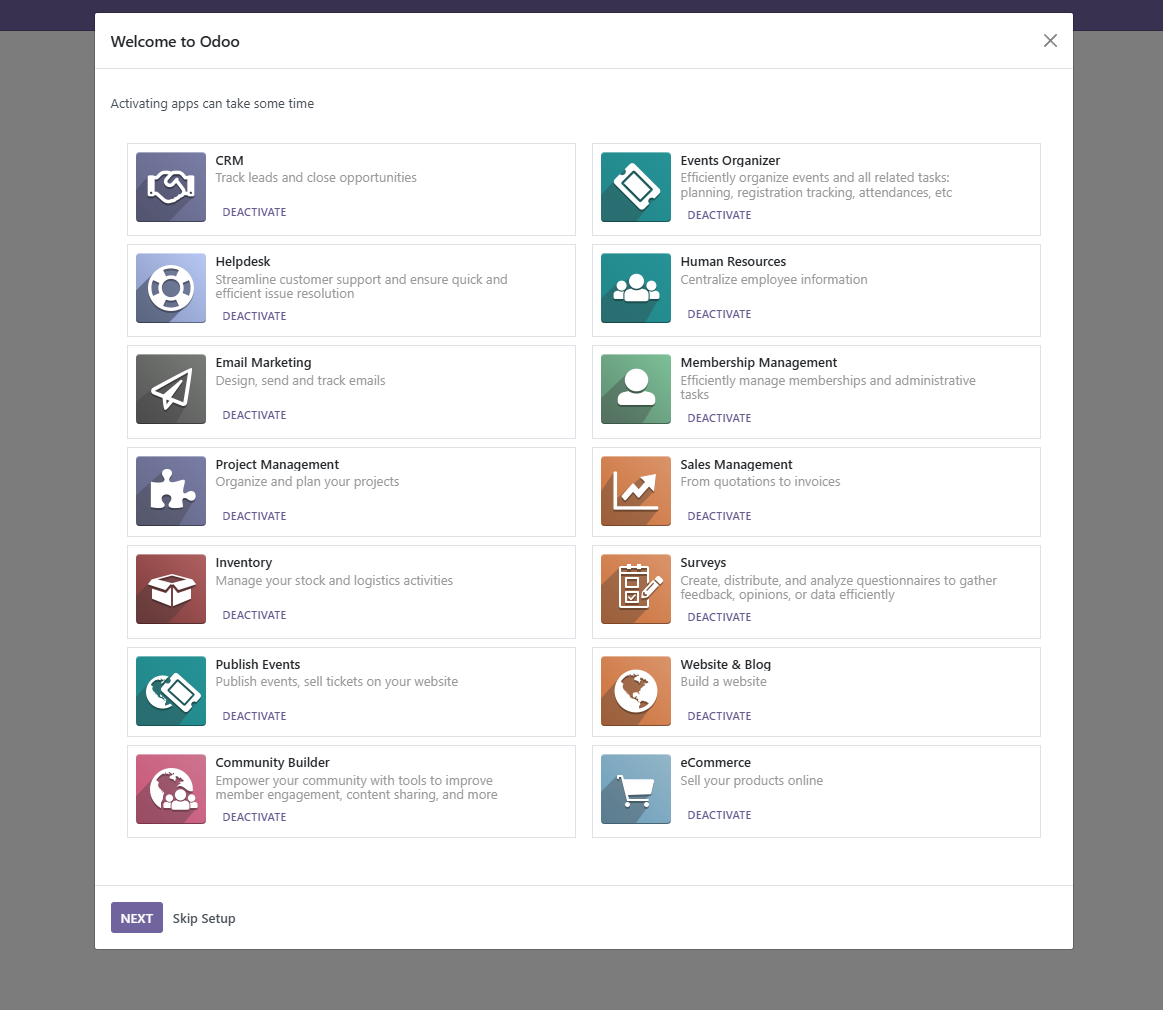
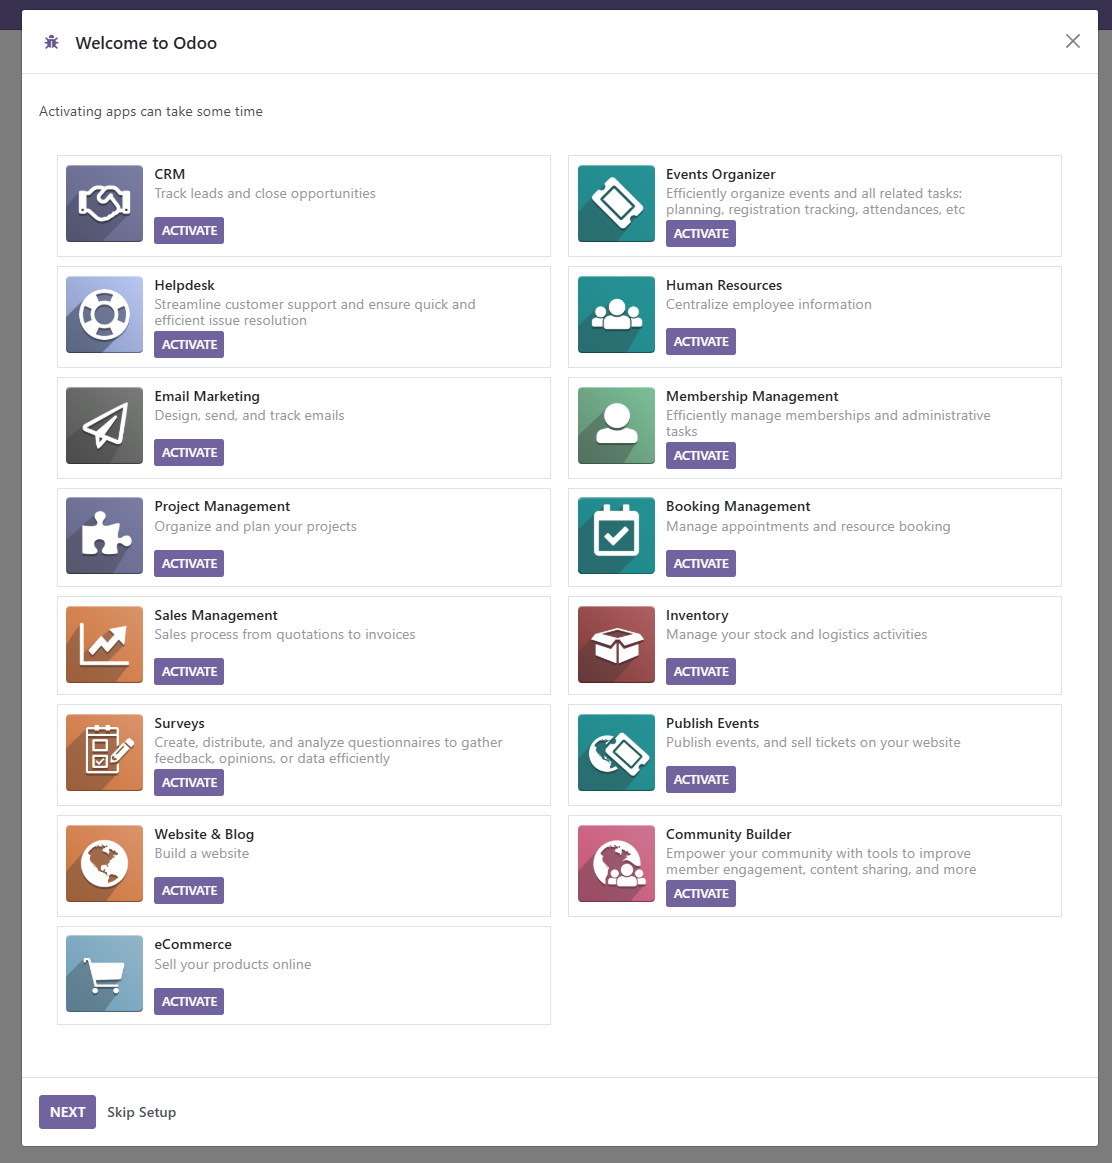
Add resource booking to available bundles Remove deprecated container_install_basis Update repo references to latest commit Update readme with info about resource booking bundle Remove container_install_basis from package Add resource_booking_install to package

diff --git a/base_onboarding/wizards/onboarding_wizard.py b/base_onboarding/wizards/onboarding_wizard.py
@@ -46,6 +46,7 @@ class OnboardingWizard(models.TransientModel):
             "website_event_install",
             "sale_install",
             "survey_install",
+            "resource_booking_install",
         ]
         installable_modules = self.env["ir.module.module"].search(
             [("name", "in", installable_module_names)]

diff --git a/README.md b/README.md
@@ -39,6 +39,7 @@ These are the bundles that come with CURQ out of the box.
 - **Community Builder** (`website_membership_install`): Empower your community with tools to improve member engagement,
   content sharing, and more
 - **eCommerce** (`website_sale_install`): Sell your products online
+- **Booking Management** (`resource_booking_install`): Manage appointments and resource booking
 
 ### Localization Bundles
 
